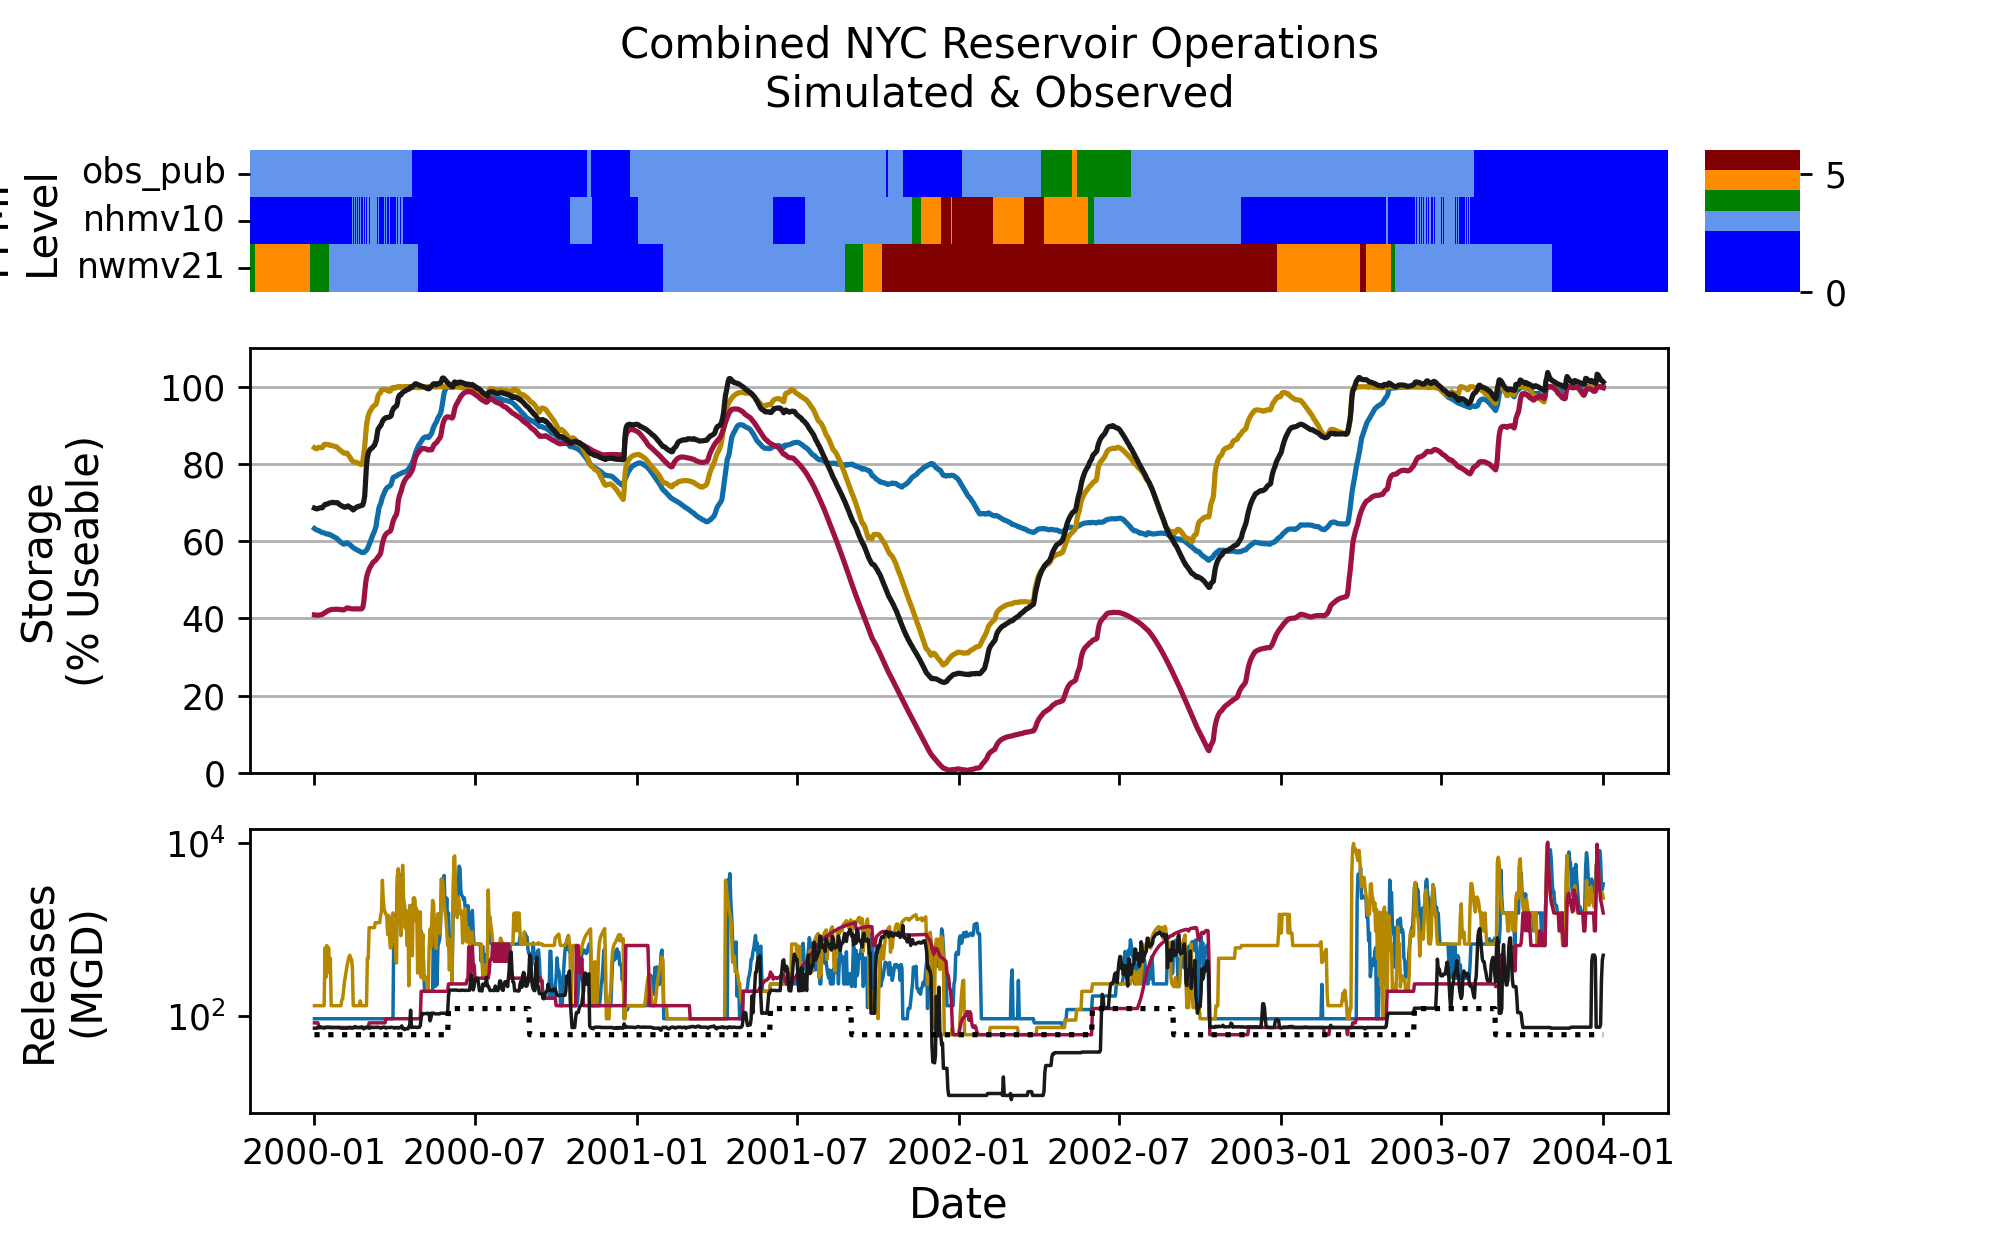
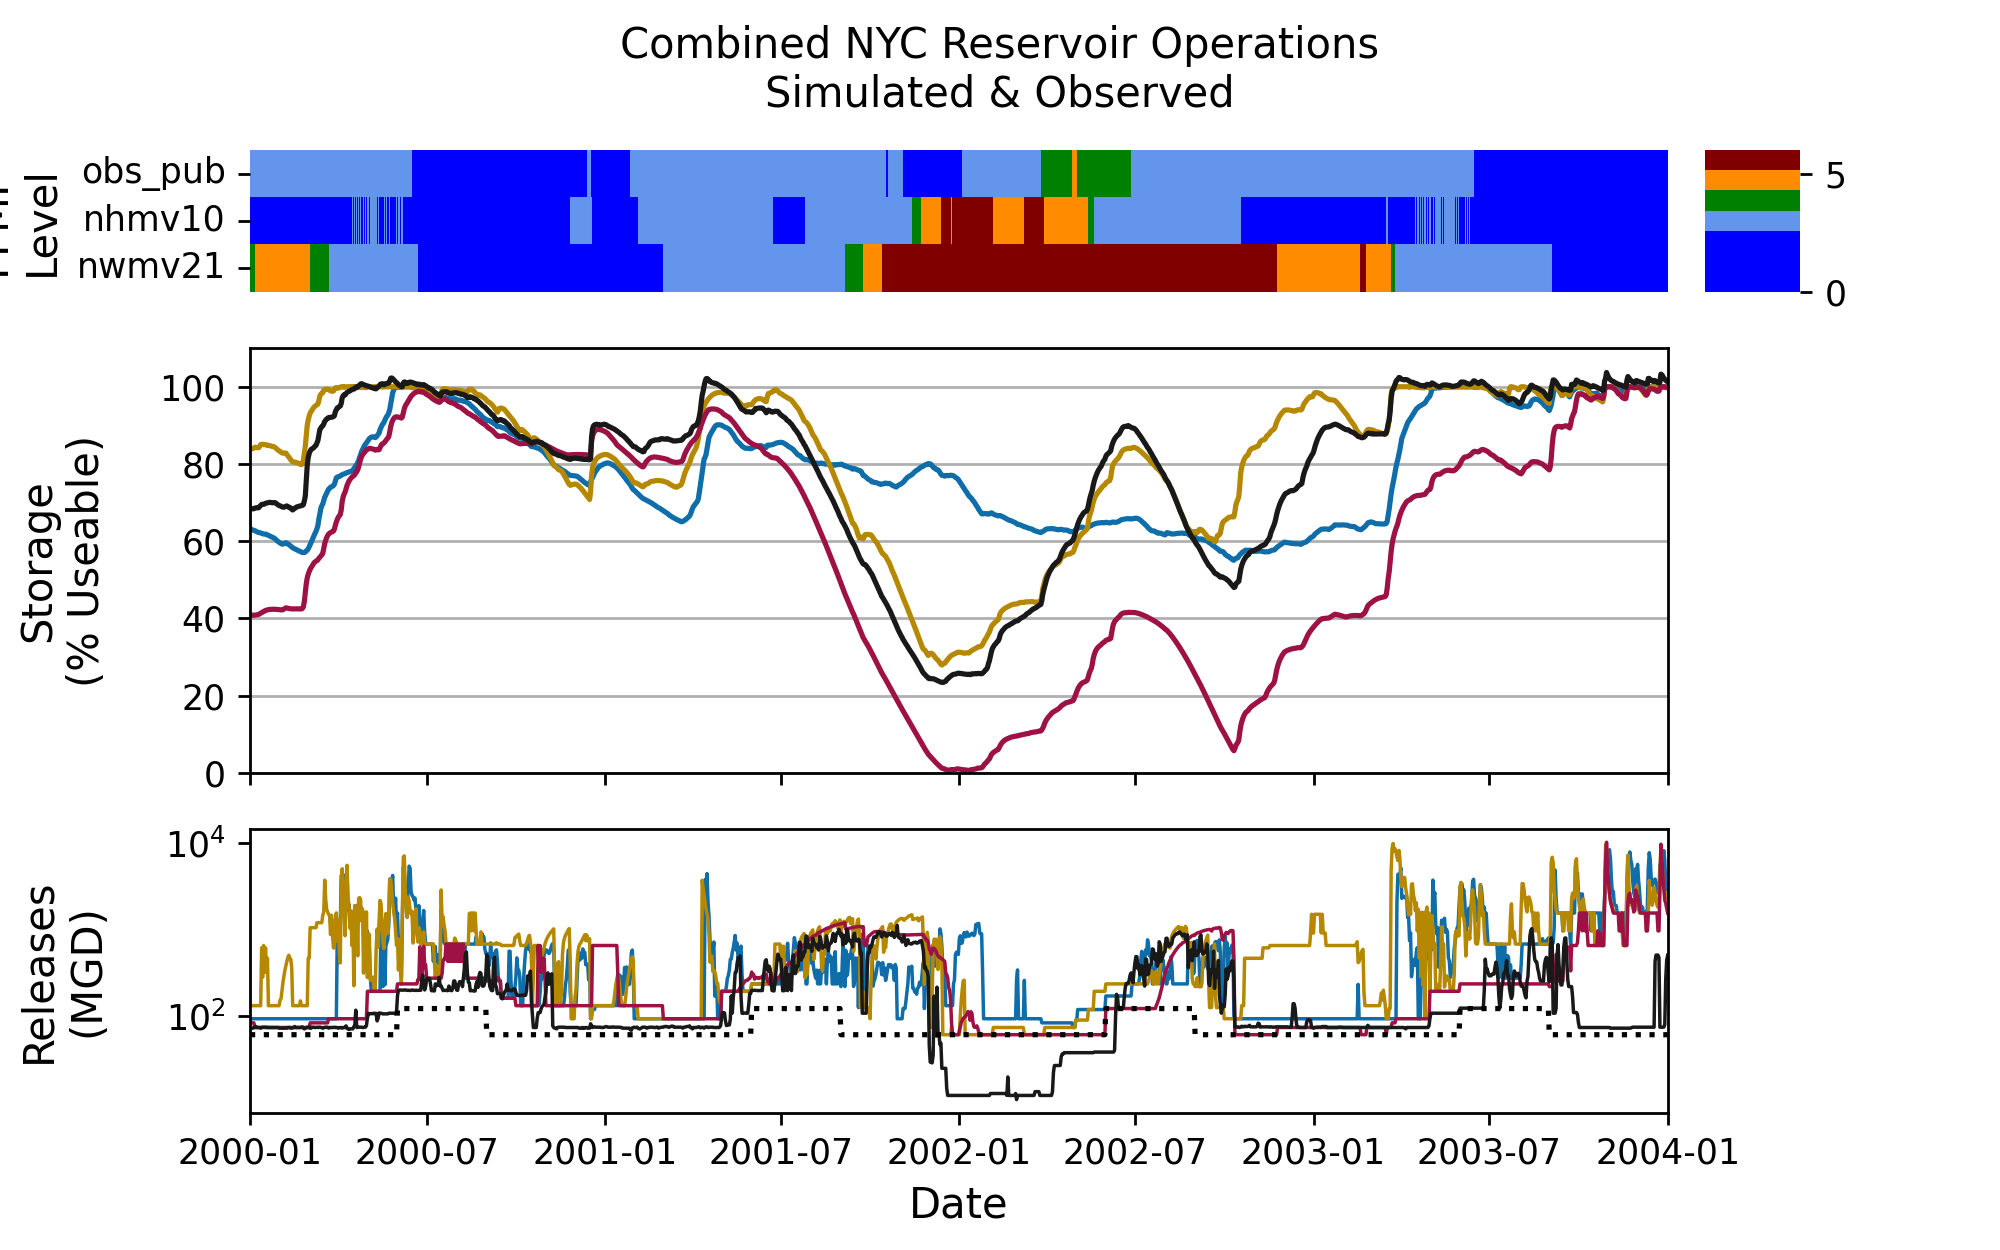
fix datetime issue & xlim for nyc storage plot

diff --git a/pywrdrb/plotting/plotting_functions.py b/pywrdrb/plotting/plotting_functions.py
@@ -677,6 +677,9 @@ def plot_combined_nyc_storage(storages, releases, models,
     reservoir_list : list of reservoirs to plot
     """
 
+    if isinstance(start_date, str):
+        start_date = pd.to_datetime(start_date)
+        end_date = pd.to_datetime(end_date)
 
     ffmp_level_colors = ['blue', 'blue', 'blue', 'cornflowerblue', 'green', 'darkorange', 'maroon']
     drought_cmap = ListedColormap(ffmp_level_colors)
@@ -706,11 +709,10 @@ def plot_combined_nyc_storage(storages, releases, models,
     historic_release['FFMP_min_release'].loc[[m in (6,7,8) for m in historic_release.index.month]] = 190 * cfs_to_mgd
 
     model_names = [m[5:] for m in models]
-    drought_levels = pd.DataFrame(index= historic_storage.index, columns = model_names)
+    drought_levels = pd.DataFrame(index= storages[models[0]].index, columns = model_names).loc[start_date:end_date]
     for model in model_names:
         drought_levels[model] = get_pywr_results(output_dir, model, results_set='res_level').loc[start_date:end_date, ['nyc']]
-    drought_levels.index = pd.to_datetime(historic_storage.index)
-    
+
     # Create figure with m subplots
     n_subplots = 3 if plot_releases else 2
     
@@ -748,6 +750,7 @@ def plot_combined_nyc_storage(storages, releases, models,
     ax2.grid(True, which='major', axis='y')
     ax2.set_ylim([0, 110])
     ax2.set_xticklabels([])
+    ax2.set_xlim([start_date, end_date])
     
     # Plot releases
     ax3 = fig.add_subplot(gs[2,0])
@@ -762,7 +765,8 @@ def plot_combined_nyc_storage(storages, releases, models,
     ax3.yaxis.set_label_coords(-0.1, 0.5)
     ax3.set_ylabel('Releases\n(MGD)', fontsize = 12)
     ax3.set_xlabel('Date', fontsize = 12)
-    
+    ax3.set_xlim([start_date, end_date])
+
     #plt.legend()
     plt.xlabel('Date')
     
@@ -774,6 +778,6 @@ def plot_combined_nyc_storage(storages, releases, models,
         #cbar.ax.yaxis.set_label_coords(4.5, 0.5)
     plt.legend(loc = 'upper left', bbox_to_anchor=(0., -0.5), ncols=2)
     plt.suptitle('Combined NYC Reservoir Operations\nSimulated & Observed')
-    plt.savefig(f'{fig_dir}combined_NYC_reservoir_operations_{start_date}_{end_date}.png', dpi=250)
+    plt.savefig(f'{fig_dir}combined_NYC_reservoir_operations_{start_date.strftime("%Y-%m-%d")}_{end_date.strftime("%Y-%m-%d")}.png', dpi=250)
     # plt.show()
     return

diff --git a/pywrdrb/drb_make_figs.py b/pywrdrb/drb_make_figs.py
@@ -17,7 +17,7 @@ from utils.directories import input_dir, output_dir, fig_dir
 if __name__ == "__main__":
 
     ## System inputs
-    rerun_all = True
+    rerun_all = False
     use_WEAP = False
 
     ### User-specified date range, or default to minimum overlapping period across models
@@ -33,7 +33,7 @@ if __name__ == "__main__":
     
     ## Load data    
     # Load Pywr-DRB simulation models
-    print(f'Retrieving simulation data from {start_date} to {end_date}.')
+    print(f'Retrieving simulation data from {start_date.strftime("%Y-%m-%d")} to {end_date.strftime("%Y-%m-%d")}.')
     if use_WEAP:
         pywr_models = ['obs_pub', 'nhmv10', 'nwmv21', 'WEAP_23Aug2022_gridmet_nhmv10']
     else:
@@ -235,10 +235,10 @@ if __name__ == "__main__":
 
 
     ### plot NYC reservoir comparison
-    if rerun_all:
-        print('Plotting NYC reservoir operations')
-        plot_combined_nyc_storage(storages, reservoir_downstream_gages, pywr_models, start_date='2000-01-01', end_date='2004-01-01')
-        plot_combined_nyc_storage(storages, reservoir_downstream_gages, pywr_models, start_date='2000-01-01', end_date='2010-01-01')
-        plot_combined_nyc_storage(storages, reservoir_downstream_gages, pywr_models, start_date=start_date, end_date=end_date)
+    # if rerun_all:
+    print('Plotting NYC reservoir operations')
+    plot_combined_nyc_storage(storages, reservoir_downstream_gages, pywr_models, start_date='2000-01-01', end_date='2004-01-01')
+    plot_combined_nyc_storage(storages, reservoir_downstream_gages, pywr_models, start_date='2000-01-01', end_date='2010-01-01')
+    plot_combined_nyc_storage(storages, reservoir_downstream_gages, pywr_models, start_date=start_date.strftime('%Y-%m-%d'), end_date=end_date.strftime('%Y-%m-%d'))
 
     print(f'Done! Check the {fig_dir} folder.')
